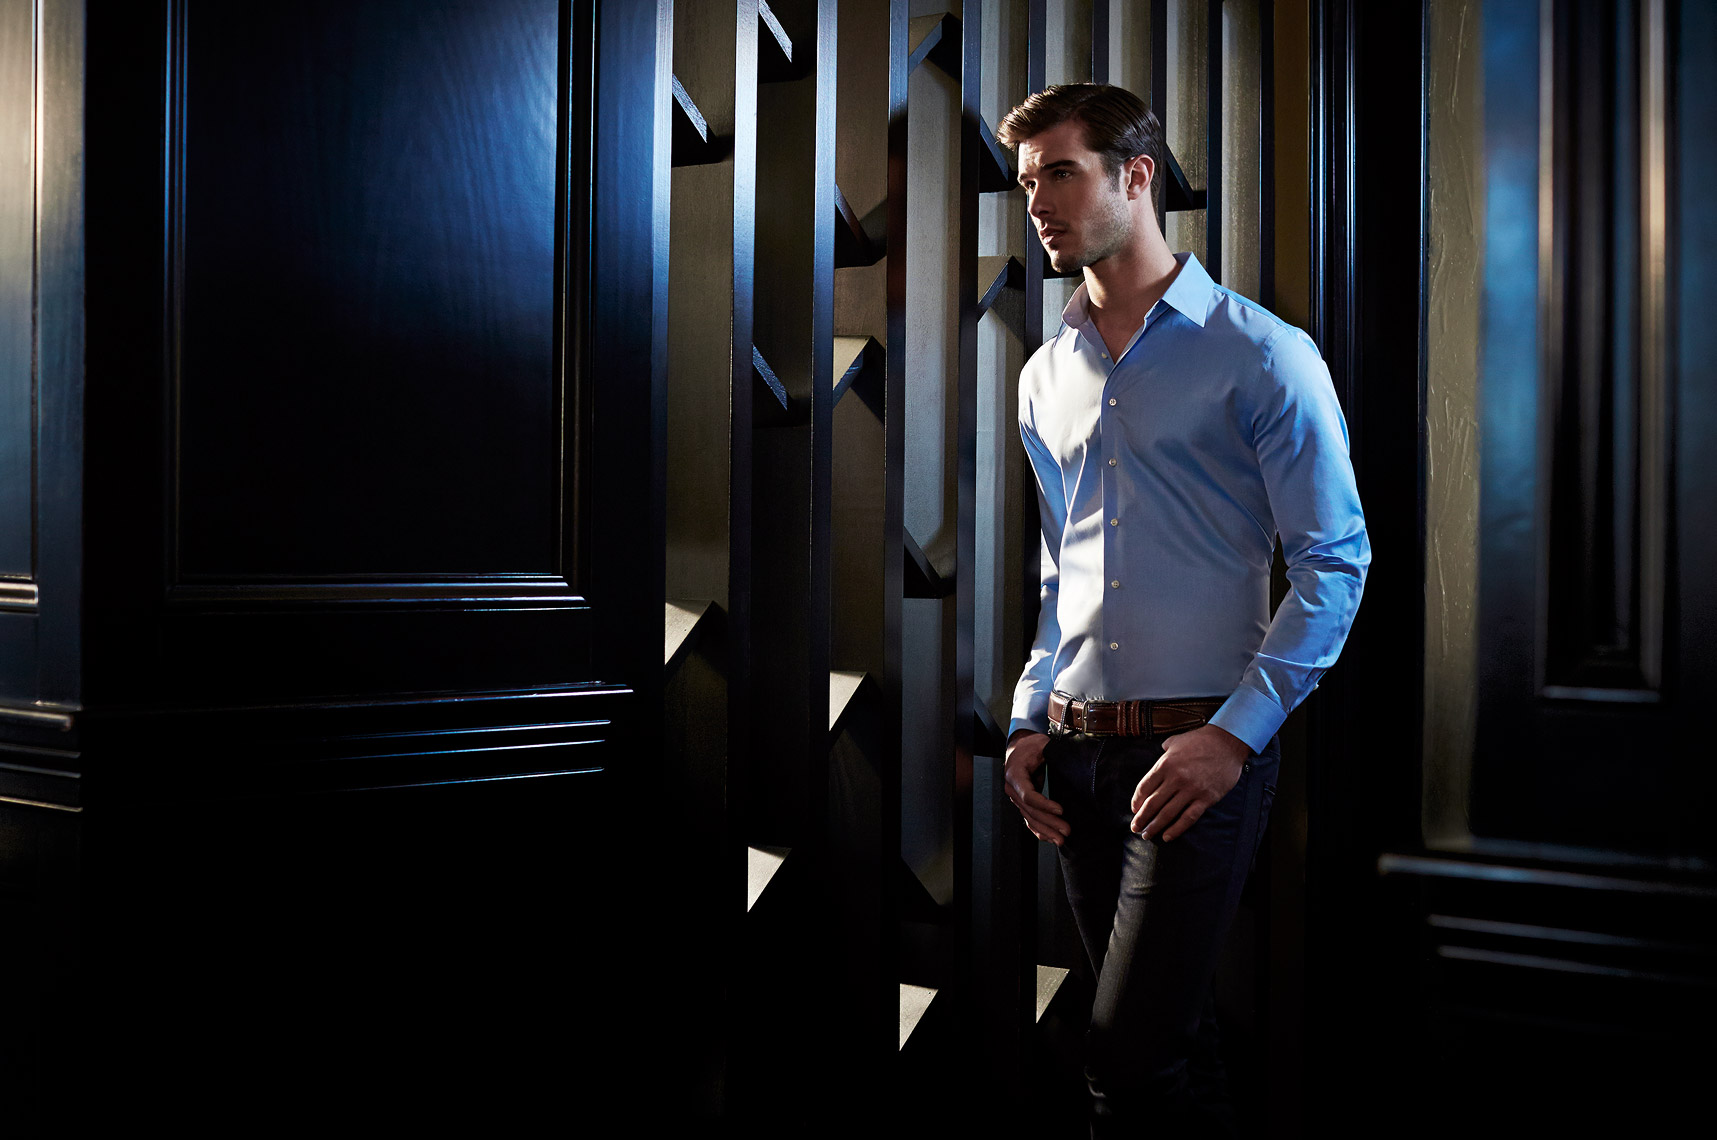
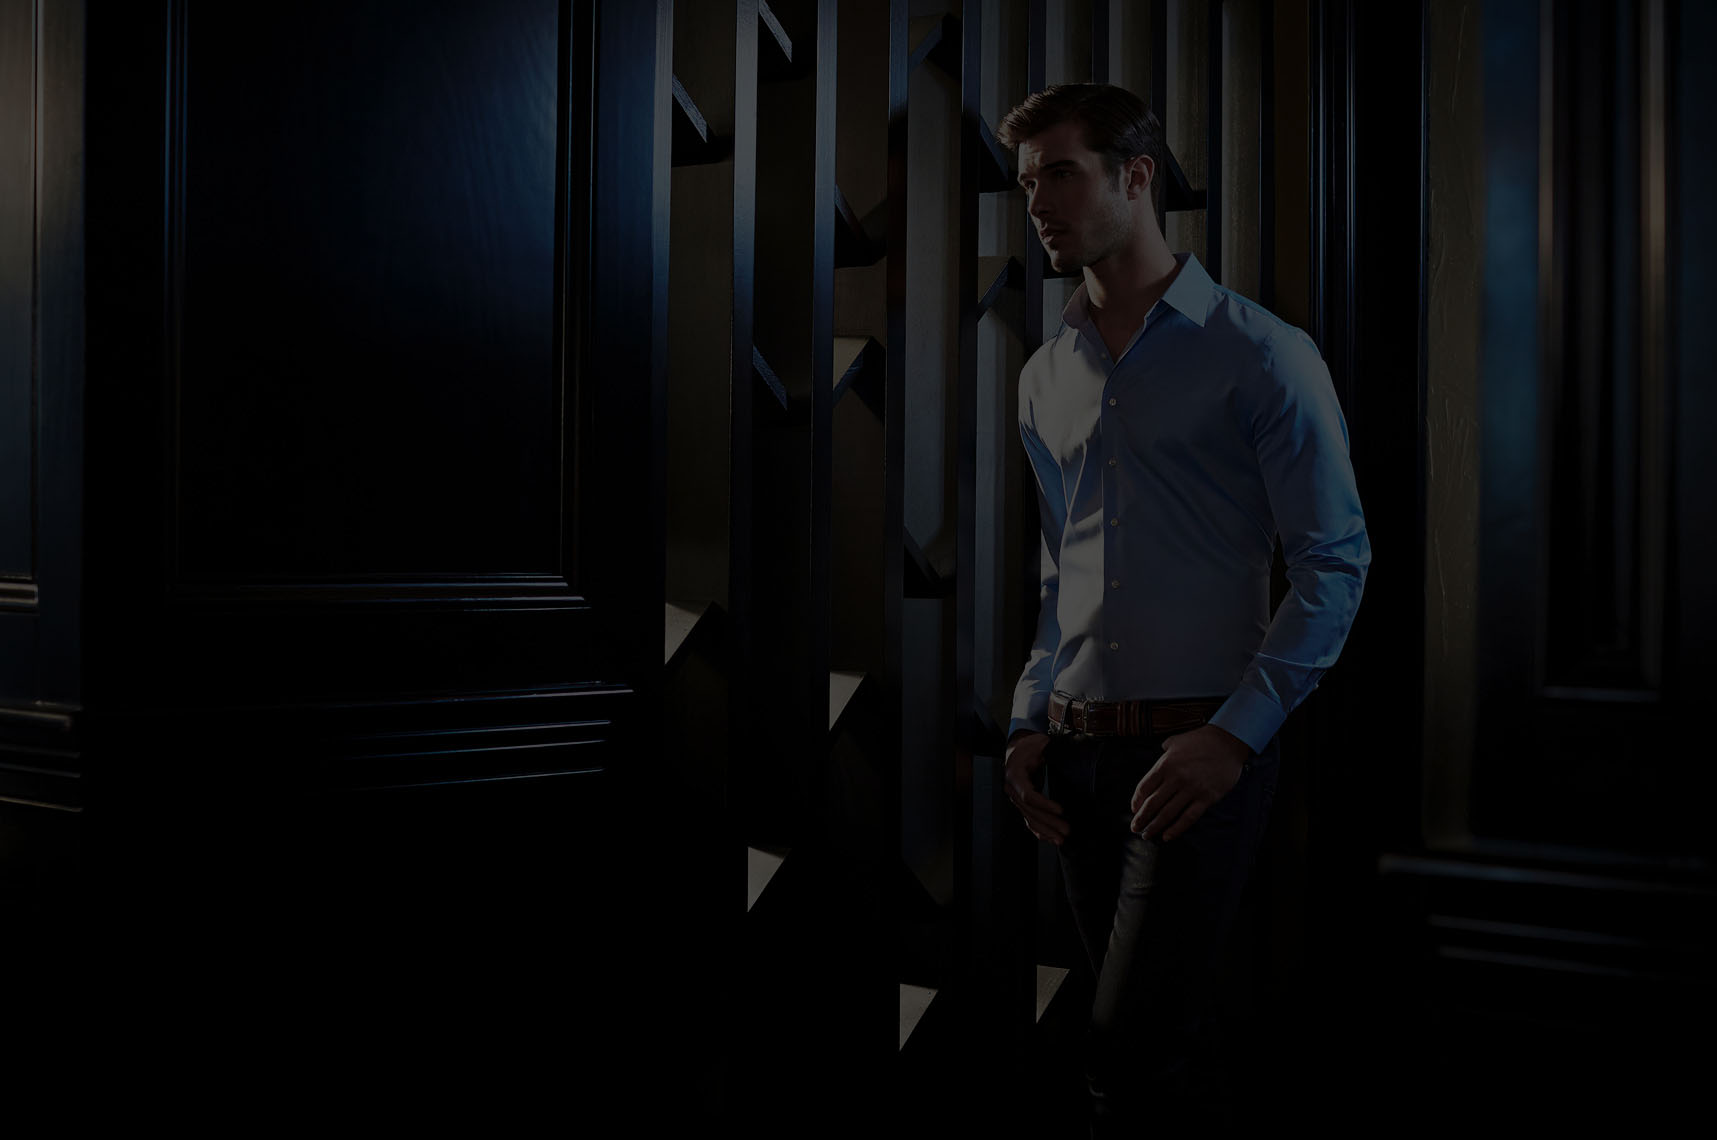
Sidebar color and spacing fix + Background gradient added

diff --git a/index.html b/index.html
@@ -79,6 +79,7 @@
     
                 <div class="block footer">
     
+                    
                     <form>
                         <label for="language">Language:</label>
                         <select id="language" name="cars">
@@ -86,8 +87,9 @@
                             <option value="bn">Bangla</option>
                         </select>
                     </form>
-    
-                    <a href="#">Store locator</a>
+                    <div class="combo">
+                        <a href="#">Store locator</a>
+                    </div>
     
                     <label for="newsletter">Newsletter</label>
     
@@ -132,16 +134,18 @@
                         </ul>
             
                         <div class="item footer">
-        
-                            <form>
-                                <label for="language">Language:</label>
-                                <select id="language" name="cars">
-                                    <option value="en">English</option>
-                                    <option value="bn">Bangla</option>
-                                </select>
-                            </form>
-        
-                            <a href="#">Store locator</a>
+                            
+                            <div class="combo">
+                                <form>
+                                    <label for="language">Language:</label>
+                                    <select id="language" name="cars">
+                                        <option value="en">English</option>
+                                        <option value="bn">Bangla</option>
+                                    </select>
+                                </form>
+                                <a href="#">Store locator</a>
+                            </div>
+                            
                             <!-- <br><br><br><br> -->
         
                             <label for="newsletter">Newsletter</label>
@@ -277,15 +281,16 @@
             
                         <div class="item footer">
         
-                            <form>
-                                <label for="language">Language:</label>
-                                <select id="language" name="cars">
-                                    <option value="en">English</option>
-                                    <option value="bn">Bangla</option>
-                                </select>
-                            </form>
-        
-                            <a href="#">Store locator</a>
+                            <div class="combo">
+                                <form>
+                                    <label for="language">Language:</label>
+                                    <select id="language" name="cars">
+                                        <option value="en">English</option>
+                                        <option value="bn">Bangla</option>
+                                    </select>
+                                </form>
+                                <a href="#">Store locator</a>
+                            </div>
                             <!-- <br><br><br><br> -->
         
                             <label for="newsletter">Newsletter</label>

diff --git a/css/style.css b/css/style.css
@@ -161,6 +161,8 @@ body {
       .sidebar__container .footer a {
         text-decoration: none;
         color: white; }
+      .sidebar__container .footer .combo {
+        margin-bottom: 5rem; }
       .sidebar__container .footer .newsletter {
         position: relative; }
       .sidebar__container .footer form select {
@@ -229,6 +231,8 @@ body {
       .sidebar-black__container .footer a {
         text-decoration: none;
         color: black; }
+      .sidebar-black__container .footer .combo {
+        margin-bottom: 5rem; }
       .sidebar-black__container .footer .newsletter {
         position: relative; }
       .sidebar-black__container .footer form select {
@@ -494,8 +498,9 @@ body {
     #ham-nav.sidebar-fullscreen .footer a {
       text-decoration: none;
       color: white; }
+    #ham-nav.sidebar-fullscreen .footer .combo {
+      margin-bottom: 3rem; }
     #ham-nav.sidebar-fullscreen .footer .newsletter {
-      margin-top: 5px;
       position: relative; }
     #ham-nav.sidebar-fullscreen .footer form select {
       color: #999999;
@@ -668,7 +673,7 @@ body {
   @media only screen and (max-width: 768px) {
     .content {
       grid-gap: .2rem;
-      margin: .2rem;
+      margin: 0rem;
       padding-bottom: 0;
       padding-bottom: 1rem;
       margin-bottom: 2rem;
@@ -783,8 +788,8 @@ body {
   transition: all 0.2s; }
 
 .sidebar-items li a:hover {
-  color: #C8A985;
-  font-size: 1.2em; }
+  color: #C8A985 !important;
+  font-size: 1.5em; }
 
 .sidebar-items li a:active {
   transform: translateY(-1px); }

diff --git a/js/resources/script.js b/js/resources/script.js
@@ -59,9 +59,11 @@ $(function() {
 
  function showSlides() { 
    var i;
-   var img = ['../img/latest-autumn-fashion-trends-for-women-wallpaper-preview.jpg','../img/mens-fashion-trends-2020.jpg',
-               '../img/people-man-travel-fashion.jpg','../img/mens-fashion-trends-2020.jpg',
-               '../img/hugo-boss-black-ss-2012-mark-vanderloo-3.jpg'];
+   var img = ['../img/hugo-boss-black-ss-2012-mark-vanderloo-3.jpg',
+              '../img/120913_Boga_1801_2.jpg',
+              '../img/pexels-burst-374044.jpg',
+              '../img/pexels-david-bartus-297933.jpg',
+              '../img/pexels-artem-beliaikin-994517.jpg'];
 
    var slides = document.getElementsByClassName("mySlides");
    var dots = document.getElementsByClassName("dot");
@@ -70,10 +72,6 @@ $(function() {
    for (i = 0; i < slides.length; i++) {
      slides[i].style.display = "none";
    }
-
-   //slide left-to-right animation
-  // $(".home").animate({left: '-100%'},0.1);
-  // $(".home").animate({left: '0'},300);
 
 
   //slider opacity animation
@@ -90,6 +88,7 @@ $(function() {
    img.push(imgs);
 
    home.style.backgroundImage='url(' + img[slideIndex-1] + ')';
+   home.style.backgroundSize="cover";
    
 
    for (i = 0; i < dots.length; i++) {

diff --git a/sass/_animations.scss b/sass/_animations.scss
@@ -44,8 +44,8 @@
             }
 
             &:hover {
-                color: $color-brown;
-                font-size: 1.2em;
+                color: $color-brown !important;
+                font-size: 1.5em;
             }
 
             &:active {

diff --git a/sass/_sidebar-black.scss b/sass/_sidebar-black.scss
@@ -54,6 +54,10 @@ $font-size-secondary: 1rem;
                 color: black;
             }
 
+            .combo {
+                margin-bottom: 5rem;
+            }
+
             .newsletter {
                 position: relative;
             }

diff --git a/sass/_sidebar.scss b/sass/_sidebar.scss
@@ -52,6 +52,10 @@ $font-size-secondary: 1rem;
                 color: white;
             }
 
+            .combo {
+                margin-bottom: 5rem;
+            }
+
             .newsletter {
                 position: relative;
             }

diff --git a/sass/_content.scss b/sass/_content.scss
@@ -172,7 +172,7 @@
 
     @media only screen and (max-width: $tablet-portrait) {
         grid-gap: .2rem;
-        margin: .2rem;
+        margin: 0rem;
         padding-bottom: 0;
         padding-bottom: 1rem;
         margin-bottom: 2rem;

diff --git a/sass/_sidebar-full.scss b/sass/_sidebar-full.scss
@@ -94,8 +94,11 @@
             color: white;
         }
 
+        .combo {
+            margin-bottom: 3rem;
+        }
+
         .newsletter {
-            margin-top: 5px;
             position: relative;
         }
 

diff --git a/sass/_header.scss b/sass/_header.scss
@@ -36,6 +36,7 @@
             margin-left: 1rem;
             
         }
+        
     }
 
     @media only screen and (max-width: $tablet-landscape) {
